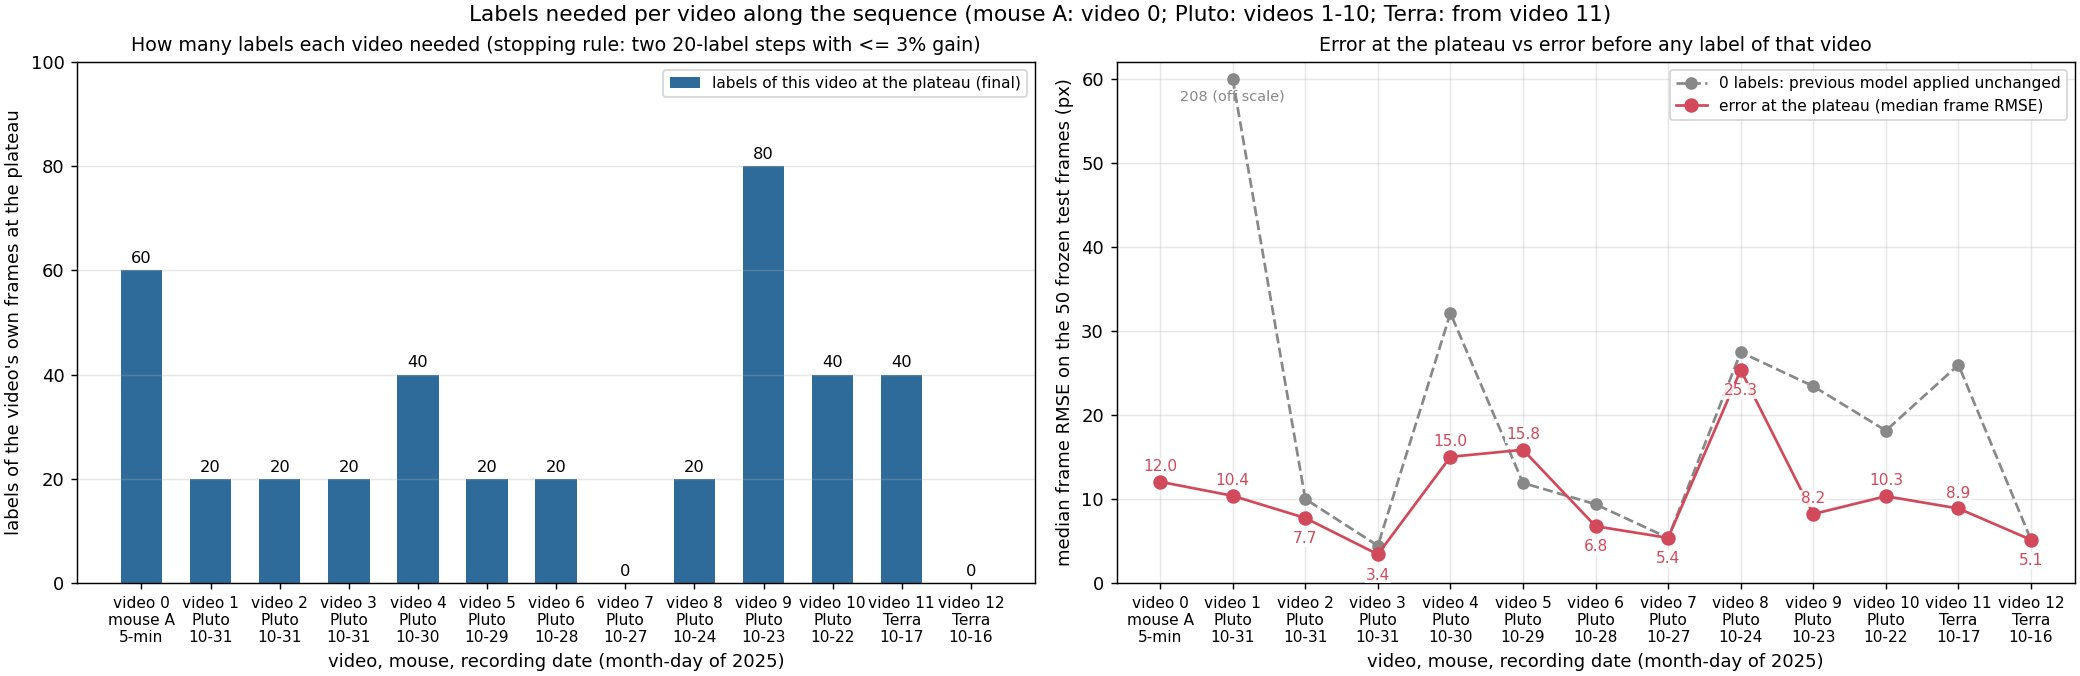
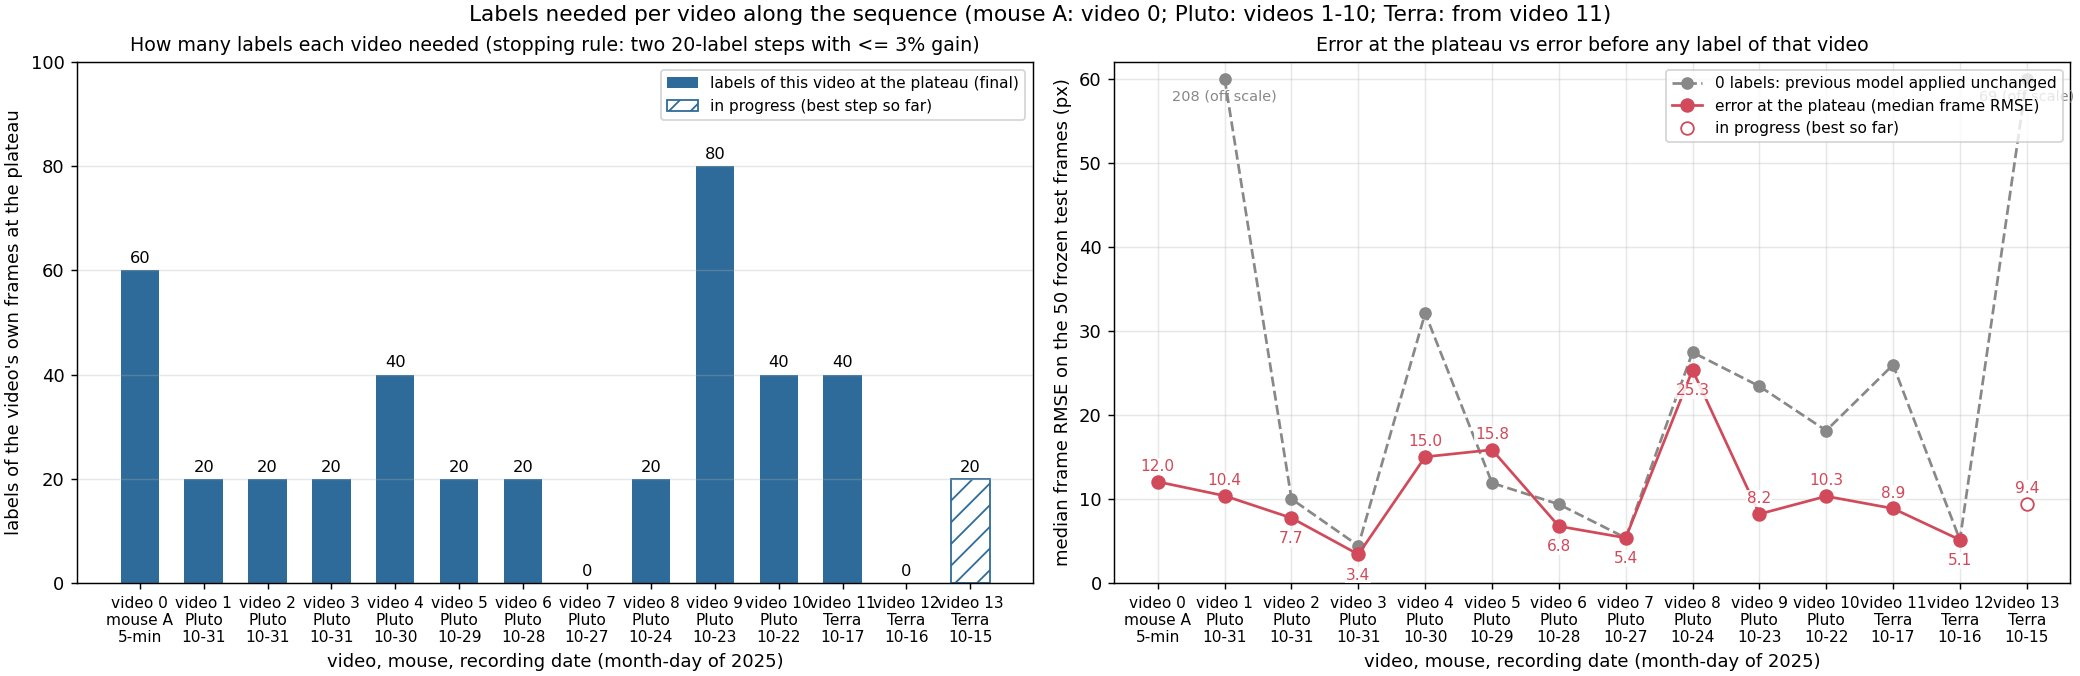
Video 13 step 1: 20 labels 9.43 px (0 labels 69.13 px)
Claude-Session: https://claude.ai/code/session_017MK5SWBFFQAu8ejFk1z7fh

diff --git a/report/index.html b/report/index.html
@@ -78,7 +78,7 @@ math[display="block"]{margin:10px 0 6px;text-align:left;overflow-x:auto;max-widt
 
 <header>
   <h1><span lang="zh">小鼠眼睛关键点追踪：做了什么，结果是什么</span><span lang="en">Mouse eye keypoint tracking: what was done and what came out</span></h1>
-  <p class="muted small">Zhiheng Li (University of Minnesota), Kaiwen Sheng (Stanford) · <span lang="zh">页面生成时间</span><span lang="en">page built</span> 2026-10-05 00:49 · <a href="https://github.com/ZhihengLi0/mouse-behavior-tracking">GitHub: ZhihengLi0/mouse-behavior-tracking</a></p>
+  <p class="muted small">Zhiheng Li (University of Minnesota), Kaiwen Sheng (Stanford) · <span lang="zh">页面生成时间</span><span lang="en">page built</span> 2026-10-05 00:50 · <a href="https://github.com/ZhihengLi0/mouse-behavior-tracking">GitHub: ZhihengLi0/mouse-behavior-tracking</a></p>
 
   <div class="text" lang="zh">
     <p><b>任务：</b>用 DeepLabCut 在小鼠眼睛视频的每一帧上找 8 个点：瞳孔上、下、左、右，上眼睑、下眼睑，鼻侧眼角、颞侧眼角。由这 8 个点得到瞳孔大小、眼睛睁开程度和眨眼，之后与脑记录对齐。</p>
@@ -105,7 +105,7 @@ math[display="block"]{margin:10px 0 6px;text-align:left;overflow-x:auto;max-widt
       <li><b>瞳孔面积怎么算？</b>按 2026 年 9 月 20 日明确的定义，瞳孔四个点都是椭圆端点，在 12 个视频的 594 帧测试帧上，四点法的面积误差中位数是 6.6%，三点法是 8.3%；视频 4 和 8 上面积仍然不准（第 9 步）。</li>
       <li><b>眨眼怎么判断？</b>还没有结果：眨眼的定义和真值还没有定。目前只有一个初步观察：瞳孔四个点的平均置信度低于 0.527，可以找出人工把四个瞳孔点都留空的帧（28 帧里 27 帧，其余帧误报 4.1%），但留空的帧不等于眨眼（第 10 步）。</li>
     </ol>
-    <p><b>进度：</b>已完成 13 个视频（视频 0–12）。</p>
+    <p><b>进度：</b>已完成 13 个视频（视频 0–12）；视频 13 进行中，按 0 / 20 / 40 / … 帧的误差为 69.13 / 9.43 px。</p>
   </div>
   <div class="text" lang="en">
     <p><b>Task:</b> DeepLabCut finds 8 points on every frame of a mouse-eye video: pupil top, bottom, left, right; upper and lower eyelid; nasal and temporal eye corner. From these we get pupil size, eye opening and blinks, to be aligned with brain recordings later.</p>
@@ -132,7 +132,7 @@ math[display="block"]{margin:10px 0 6px;text-align:left;overflow-x:auto;max-widt
       <li><b>How to compute the pupil area?</b> Under the definitions made explicit on 2026-09-20 all four pupil points are ellipse endpoints, and on the 594 test frames of 12 videos the four-point area has a median error of 6.6% against 8.3% for the three-point rule; on videos 4 and 8 the area is still not accurate (step 9).</li>
       <li><b>How to detect blinks?</b> No result yet: the definition of a blink and its truth are not fixed. Only a preliminary observation so far: a mean confidence of the four pupil points below 0.527 finds the frames in which the labeler left all four pupil points empty (27 of 28, with 4.1% of the other frames flagged), but an empty frame is not the same as a blink (step 10).</li>
     </ol>
-    <p><b>Status:</b> 13 videos finished (videos 0–12).</p>
+    <p><b>Status:</b> 13 videos finished (videos 0–12); video 13 in progress, error at 0 / 20 / 40 / … labels: 69.13 / 9.43 px.</p>
   </div>
 
   <div class="text" lang="zh">
@@ -581,6 +581,7 @@ math[display="block"]{margin:10px 0 6px;text-align:left;overflow-x:auto;max-widt
       <div class="item"><img src="assets/scale_video10.jpg" alt="Video 10: error vs own labels" loading="lazy"><div class="cap"><span lang="zh">视频 10（Pluto，2025-10-22）：平台点 40 帧，10.32 px</span><span lang="en">Video 10 (Pluto, 2025-10-22): plateau at 40 labels, 10.32 px</span></div></div>
       <div class="item"><img src="assets/scale_video11.jpg" alt="Video 11: error vs own labels" loading="lazy"><div class="cap"><span lang="zh">视频 11（Terra，2025-10-17）：平台点 40 帧，8.86 px</span><span lang="en">Video 11 (Terra, 2025-10-17): plateau at 40 labels, 8.86 px</span></div></div>
       <div class="item"><img src="assets/scale_video12.jpg" alt="Video 12: error vs own labels" loading="lazy"><div class="cap"><span lang="zh">视频 12（Terra，2025-10-16）：平台点 0 帧，5.13 px</span><span lang="en">Video 12 (Terra, 2025-10-16): plateau at 0 labels, 5.13 px</span></div></div>
+      <div class="item"><img src="assets/scale_video13.jpg" alt="Video 13: error vs own labels" loading="lazy"><div class="cap"><span lang="zh">视频 13（Terra，2025-10-15）：进行中</span><span lang="en">Video 13 (Terra, 2025-10-15): in progress</span></div></div>
     </div></div>
     <figcaption lang="zh"><span class="tag">图 5-3 怎么看：</span>每个视频自己的曲线排成一行，从视频 0 到最新的视频，可以左右拖动；每张图下面注明视频、老鼠、日期和平台点。三幅小图的读法以视频 9 为例。左图：横轴是这个视频自己的标注帧数，纵轴是误差；20 帧 10.4 px，40 帧 8.6 px，80 帧 8.2 px，之后两步（9.4、8.6 px）都没有再改善，规则在 120 帧触发，平台点记为 80 帧。中图：8 个点各自的误差，瞳孔下点（蓝）最难。右图：不需要标注的指标，紫线是整段视频里被跳动规则标出的帧的比例，随标注增加从 18% 降到 9%。</figcaption>
     <figcaption lang="en"><span class="tag">Figure 5-3, how to read:</span>The curves of every video in one row, from video 0 to the newest; scroll sideways. Under each figure: video, mouse, date and plateau point. How to read the three panels, with video 9 as the example. Left: x = this video's own labels, y = error; 10.4 px at 20 labels, 8.6 px at 40, 8.2 px at 80, then two steps without a gain (9.4, 8.6 px), so the rule fired at 120 and the plateau point is 80. Middle: error of each of the 8 points; pupil bottom (blue) is the hardest. Right: label-free signals; the purple line is the share of video frames flagged by the jump rule, falling from 18% to 9% as labels are added.</figcaption>
@@ -617,6 +618,7 @@ math[display="block"]{margin:10px 0 6px;text-align:left;overflow-x:auto;max-widt
 <tr><td>10</td><td>Pluto<br>2025-10-22</td><td>500</td><td>18.13 / 11.83 / 10.32 / 10.49 / 10.76</td><td><span lang="zh"><b>40 帧，10.32 px</b></span><span lang="en"><b>40 labels, 10.32 px</b></span></td><td>80</td><td>40</td></tr>
 <tr><td>11</td><td>Terra<br>2025-10-17</td><td>540</td><td>25.96 / 9.24 / 8.86 / 8.77 / 8.65</td><td><span lang="zh"><b>40 帧，8.86 px</b></span><span lang="en"><b>40 labels, 8.86 px</b></span></td><td>80</td><td>40</td></tr>
 <tr><td>12</td><td>Terra<br>2025-10-16</td><td>580</td><td>5.13 / 5.77 / 5.84</td><td><span lang="zh"><b>0 帧，5.13 px</b></span><span lang="en"><b>0 labels, 5.13 px</b></span></td><td>40</td><td>0</td></tr>
+<tr><td>13</td><td>Terra<br>2025-10-15</td><td>580</td><td>69.13 / 9.43</td><td><span lang="zh">进行中（目前最好：20 帧，9.43 px）</span><span lang="en">in progress (best so far: 20 labels, 9.43 px)</span></td><td>20</td><td>–</td></tr>
       </tbody>
     </table>
   </div>

diff --git a/report/index_en.html b/report/index_en.html
@@ -75,7 +75,7 @@ math[display="block"]{margin:10px 0 6px;text-align:left;overflow-x:auto;max-widt
 
 <header>
   <h1><span lang="en">Mouse eye keypoint tracking: what was done and what came out</span></h1>
-  <p class="muted small">Zhiheng Li (University of Minnesota), Kaiwen Sheng (Stanford) · <span lang="en">page built</span> 2026-10-05 00:49 · <a href="https://github.com/ZhihengLi0/mouse-behavior-tracking">GitHub: ZhihengLi0/mouse-behavior-tracking</a></p>
+  <p class="muted small">Zhiheng Li (University of Minnesota), Kaiwen Sheng (Stanford) · <span lang="en">page built</span> 2026-10-05 00:50 · <a href="https://github.com/ZhihengLi0/mouse-behavior-tracking">GitHub: ZhihengLi0/mouse-behavior-tracking</a></p>
 
   
   <div class="text" lang="en">
@@ -103,7 +103,7 @@ math[display="block"]{margin:10px 0 6px;text-align:left;overflow-x:auto;max-widt
       <li><b>How to compute the pupil area?</b> Under the definitions made explicit on 2026-09-20 all four pupil points are ellipse endpoints, and on the 594 test frames of 12 videos the four-point area has a median error of 6.6% against 8.3% for the three-point rule; on videos 4 and 8 the area is still not accurate (step 9).</li>
       <li><b>How to detect blinks?</b> No result yet: the definition of a blink and its truth are not fixed. Only a preliminary observation so far: a mean confidence of the four pupil points below 0.527 finds the frames in which the labeler left all four pupil points empty (27 of 28, with 4.1% of the other frames flagged), but an empty frame is not the same as a blink (step 10).</li>
     </ol>
-    <p><b>Status:</b> 13 videos finished (videos 0–12).</p>
+    <p><b>Status:</b> 13 videos finished (videos 0–12); video 13 in progress, error at 0 / 20 / 40 / … labels: 69.13 / 9.43 px.</p>
   </div>
 
   
@@ -460,6 +460,7 @@ math[display="block"]{margin:10px 0 6px;text-align:left;overflow-x:auto;max-widt
       <div class="item"><img src="assets/scale_video10.jpg" alt="Video 10: error vs own labels" loading="lazy"><div class="cap"><span lang="en">Video 10 (Pluto, 2025-10-22): plateau at 40 labels, 10.32 px</span></div></div>
       <div class="item"><img src="assets/scale_video11.jpg" alt="Video 11: error vs own labels" loading="lazy"><div class="cap"><span lang="en">Video 11 (Terra, 2025-10-17): plateau at 40 labels, 8.86 px</span></div></div>
       <div class="item"><img src="assets/scale_video12.jpg" alt="Video 12: error vs own labels" loading="lazy"><div class="cap"><span lang="en">Video 12 (Terra, 2025-10-16): plateau at 0 labels, 5.13 px</span></div></div>
+      <div class="item"><img src="assets/scale_video13.jpg" alt="Video 13: error vs own labels" loading="lazy"><div class="cap"><span lang="en">Video 13 (Terra, 2025-10-15): in progress</span></div></div>
     </div></div>
     
     <figcaption lang="en"><span class="tag">Figure 5-3, how to read:</span>The curves of every video in one row, from video 0 to the newest; scroll sideways. Under each figure: video, mouse, date and plateau point. How to read the three panels, with video 9 as the example. Left: x = this video's own labels, y = error; 10.4 px at 20 labels, 8.6 px at 40, 8.2 px at 80, then two steps without a gain (9.4, 8.6 px), so the rule fired at 120 and the plateau point is 80. Middle: error of each of the 8 points; pupil bottom (blue) is the hardest. Right: label-free signals; the purple line is the share of video frames flagged by the jump rule, falling from 18% to 9% as labels are added.</figcaption>
@@ -496,6 +497,7 @@ math[display="block"]{margin:10px 0 6px;text-align:left;overflow-x:auto;max-widt
 <tr><td>10</td><td>Pluto<br>2025-10-22</td><td>500</td><td>18.13 / 11.83 / 10.32 / 10.49 / 10.76</td><td><span lang="en"><b>40 labels, 10.32 px</b></span></td><td>80</td><td>40</td></tr>
 <tr><td>11</td><td>Terra<br>2025-10-17</td><td>540</td><td>25.96 / 9.24 / 8.86 / 8.77 / 8.65</td><td><span lang="en"><b>40 labels, 8.86 px</b></span></td><td>80</td><td>40</td></tr>
 <tr><td>12</td><td>Terra<br>2025-10-16</td><td>580</td><td>5.13 / 5.77 / 5.84</td><td><span lang="en"><b>0 labels, 5.13 px</b></span></td><td>40</td><td>0</td></tr>
+<tr><td>13</td><td>Terra<br>2025-10-15</td><td>580</td><td>69.13 / 9.43</td><td><span lang="en">in progress (best so far: 20 labels, 9.43 px)</span></td><td>20</td><td>–</td></tr>
       </tbody>
     </table>
   </div>

diff --git a/README.md b/README.md
@@ -26,7 +26,7 @@ per-frame predictions stay local; git carries code, documentation and audited ag
 | Finished | **video 10** (Pluto, 2025-10-22, the last Pluto video of the sequence): test50 / val20 / batch01 pre-labeled with the video-9 80-label model (1014) and corrected by the labeler (test50: 234 of 400 points moved), test set frozen; 0 labels (model 1014) = 18.13 px (p90 32.0, 8% of frames > 50 px), 20 labels = 11.83 px (p90 27.7, 2% > 50 px), 40 labels = 10.32 px (p90 26.1, 92% of keypoints with confidence >= 0.6), 60 labels = 10.49 px (p90 27.2, 8% > 50 px; no gain over 10.32), 80 labels = 10.76 px (p90 188.7, 12% > 50 px; no gain): the plateau rule fired at 80 (two steps without a gain on 10.32), finished at **40 labels, 10.32 px** (user decision 2026-10-03) |
 | Finished | **video 11** (Terra = mouse C, 2025-10-17, the first video of a new mouse): test50 / val20 / batch01 pre-labeled with the video-10 40-label model (1112) and corrected by the labeler (test50: 249 of 400 points moved), test set frozen; 0 labels (model 1112) = 25.96 px (p90 80.1, 16% of frames > 50 px), 20 labels = 9.24 px (p90 166.4, 20% of frames > 50 px), 40 labels = 8.86 px (p90 17.5, 4% of frames > 50 px, 94% of keypoints with confidence >= 0.6; 4.1% better on the median), 60 labels = 8.77 px (p90 12.9, 2% of frames > 50 px, 97% confidence; 1.0% better than 8.86, a flat step), 80 labels = 8.65 px (p90 13.1, 2% > 50 px, 98% confidence; 1.4% better, a second flat step): the plateau rule fired at 80, finished at **40 labels, 8.86 px** (user decision 2026-10-04). Training set of every step = 540 carried labels of videos 0-10 + this video's labels; shuffles 1211, 1212, ... |
 | Finished | **video 12** (Terra, 2025-10-16, second video of mouse C): test50 / val20 / batch01 pre-labeled with the video-11 40-label model (1212) and corrected by the labeler (test50: 110 of 400 points moved), test set frozen; 0 labels (model 1212) = 5.13 px, 20 labels = 5.77 px, 40 labels = 5.84 px (0% of frames > 50 px at every step): no step improves the 0-label number, the plateau rule fired at 40, finished with the plateau at **0 labels, 5.13 px** (user decision 2026-10-04 21:29); no labels carried |
-| In progress | **video 13** (Terra, 2025-10-15): test50 / val20 / batch01 extracted and pre-labeled with model 1212 and corrected by the labeler (test50: 287 of 400 points moved), test set frozen; 0 labels (model 1212) = 69.13 px (p90 116.6, 56% of frames > 50 px): the model that fitted video 12 does not fit this day; step 1 (20 labels, shuffle 1411) training (2026-10-04 22:57). Training set of every step = 580 carried labels of videos 0-11 + this video's labels; shuffles 1411, 1412, ... |
+| In progress | **video 13** (Terra, 2025-10-15): test50 / val20 / batch01 extracted and pre-labeled with model 1212 and corrected by the labeler (test50: 287 of 400 points moved), test set frozen; 0 labels (model 1212) = 69.13 px (p90 116.6, 56% of frames > 50 px): the model that fitted video 12 does not fit this day; 20 labels (shuffle 1411) = 9.43 px (p90 16.0, 0% of frames > 50 px, 86% of keypoints with confidence >= 0.6; 86% better than the 0-label number); batch 2 being selected (2026-10-05 00:50). Training set of every step = 580 carried labels of videos 0-11 + this video's labels; shuffles 1411, 1412, ... |
 | Analysis (2026-10-04) | blink and pupil area on all 12 finished videos (`v2_new_pupil_top_video_scaling/results/blink_and_area/`): four-point area median error 6.6% (three-point 8.3%); closed eye best detected by the mean confidence of the four pupil points (27 of 28 closed frames, 4.1% of open frames flagged; the earlier rule flags 55.7%); area traces still contain tracking jumps not covered by the closure rule. Error and confidence per keypoint (`.../results/keypoint_confidence_error/`): pupil top is the least accurate point (10.9 px median) |
 | Next | Terra units 14-18, one recording day each, newest first |
 
@@ -49,7 +49,7 @@ Labels needed per video (plateau = two consecutive 20-label steps that improve t
 | 10 | Pluto, 2025-10-22 | 500 | 18.13 / 11.83 / 10.32 / 10.49 / 10.76 px (v2) | 40 labels, 10.3 px (rule fired at 80) |
 | 11 | Terra (mouse C), 2025-10-17 | 540 | 25.96 / 9.24 / 8.86 / 8.77 / 8.65 px (v2) | 40 labels, 8.9 px (rule fired at 80) |
 | 12 | Terra (mouse C), 2025-10-16 | 580 | 5.13 / 5.77 / 5.84 px (v2) | 0 labels, 5.1 px (rule fired at 40) |
-| 13 | Terra (mouse C), 2025-10-15 | 580 | (v2, in progress) | – |
+| 13 | Terra (mouse C), 2025-10-15 | 580 | 69.13 / 9.43 px (v2, in progress) | – |
 
 What the numbers say:
 

diff --git a/v2_new_pupil_top_video_scaling/results/README.md b/v2_new_pupil_top_video_scaling/results/README.md
@@ -25,7 +25,7 @@ snapshot with the best validation mAP after the first learning-rate drop (epochs
 | 10 `10_20251022_Pluto1` | mouse B, 19.9 min, 2025-10-22 | 500 (videos 0-3 + 40 of video 4 + 20 each of videos 5, 6, 8 + 80 of video 9) | convention v2: 18.13 / 11.83 / 10.32 / 10.49 / 10.76 | **40 labels** (rule fired at 80; user decision 2026-10-03) | 10.32 px |
 | 11 `11_20251017_Terra_spont_1` | mouse C (Terra), 19.9 min, 2025-10-17 | 540 (videos 0-3 + 40 of video 4 + 20 each of videos 5, 6, 8 + 80 of video 9 + 40 of video 10) | convention v2: 25.96 / 9.24 / 8.86 / 8.77 / 8.65 | **40 labels** (rule fired at 80; user decision 2026-10-04) | 8.86 px |
 | 12 `12_20251016_Terra_spont_2` | mouse C (Terra), 19.9 min, 2025-10-16 | 580 (as for video 11 + 40 of video 11) | convention v2: 5.13 (0 labels; biased low by the pre-labels; see the video's README) / 5.77 / 5.84 | **0 labels** (rule fired at 40; the video-11 model already fits) | 5.13 px |
-| 13 `13_20251015_Terra_spont_1` | mouse C (Terra), 19.9 min, 2025-10-15 | 580 (video 12 carries none) | convention v2: 69.13 (0 labels) | in progress | – |
+| 13 `13_20251015_Terra_spont_1` | mouse C (Terra), 19.9 min, 2025-10-15 | 580 (video 12 carries none) | convention v2: 69.13 / 9.43 | in progress | – |
 
 `labels_to_plateau.png` / `labels_to_plateau.csv` (2026-09-30): the plateau point of every video in the sequence as one figure - labels needed (left) and the error at the plateau vs the 0-label error (right); `scripts/plot_labels_to_plateau.py`. The csv is the table above in machine-readable form and is updated when a video finishes.
 

diff --git a/v2_new_pupil_top_video_scaling/13_20251015_Terra_spont_1/results/README.md b/v2_new_pupil_top_video_scaling/13_20251015_Terra_spont_1/results/README.md
@@ -11,6 +11,7 @@ in total) + this video's labels; shuffles 1411, 1412, ...
 | labels of this video | median | p90 | frames > 50 px | keypoints conf >= 0.6 | pool frames flagged by the jump rule |
 |---|---|---|---|---|---|
 | 0 (video-11 40-label model 1212, applied unchanged) | 69.13 px | 116.6 | 56% | 24% | – |
+| 20 (shuffle 1411) | 9.43 px | 16.0 | 0% | 86% | pending |
 
 The model that fitted video 12 (the day after, 5.13 px) does not fit this day: 69 px at 0 labels, more than half of
 the test frames above 50 px. The other models of videos 11 and 12 give 31.5-79.4 px on this test set
